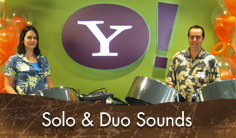
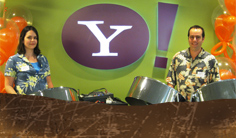
Homepage and nav html and css

Changed region(s): [[0.178, 0.8116, 0.8305, 0.9275]]

diff --git a/public/less/main.less b/public/less/main.less
@@ -58,6 +58,9 @@ header {
       &:hover {
         color: #ddd;
       }
+      &:active {
+        color: #fcd870;
+      }
     }
   }
   .navbar-left {
@@ -124,7 +127,6 @@ footer {
   }
 }
 
-
 /* Home page */
 body.index {
   #main #main-inner {
@@ -165,8 +167,30 @@ body.index {
         a {
           width: 100%;
           display: block;
+          position: relative;
           img {
             width: 100%;
+          }
+          span {
+            position: absolute;
+            bottom: 5%;
+            color: #fff;
+            text-shadow: 0px 2px 3px rgba(0, 0, 0, 0.8);
+            line-height: 19px;
+            font-size: 17px;
+            left: 0;
+            right: 0;
+            z-index: 2;
+          }
+          &:hover {
+            outline: 3px solid #6c0e16;
+            opacity: 0.9;
+            span {
+              color: #fcd870;
+            }
+          }
+          &:active {
+            opacity: 0.8;
           }
         }
       }
@@ -257,7 +281,9 @@ a.playing {
   font-weight: bold;
 }
 
+
 /***********************/
+/* Small screen stuff */
 
 @media only screen and (max-width: 767px) {
   body {
@@ -271,7 +297,6 @@ a.playing {
         width: 120px;
         height: 62px;
         background-image: url(/images/layout/logo-sm.png);
-        /*display: none;*/
       }
     }
   }
@@ -283,18 +308,19 @@ a.playing {
       padding: 15px;
     }
   }
-}
-
-@media only screen and (max-width: 579px) {
-
-  /*body.index {
+  body.index {
     #main #main-inner #sounds {
-      padding: 0 0 5px 0;
-      li {
-        width: 100%;
-        padding: 10px 10px 5px 10px;
+      li a {
+        span {
+          font-size: 13px;
+        }
+        &:hover {
+          img {
+            opacity: 0.65;
+          }
+        }
       }
     }
-  }*/
+  }
 }
 

diff --git a/models/page.js b/models/page.js
@@ -15,6 +15,7 @@ var PageSchema = Schema({
   keywords: { type: String, required: true, default: '', validate: meta_validator },
   description: { type: String, required: true, default: '', validate: meta_validator },
   view: { type: String, required: true, default: 'cms/pages/default' },
+  body_class: { type: String, default: '' },
   content_blocks: [{
     name: { type: String, required: true },
     content: { type: String, required: true },

diff --git a/bin/load_content.js b/bin/load_content.js
@@ -62,7 +62,8 @@ db.connection.on('open', function() {
               name: 'main',
               content: data,
               type: 'markdown'
-            }]
+            }],
+            body_class: path.match(/^[^\/]*/)[0]
           }, function(err, page) {
             if (err) {
               return callback(err);
